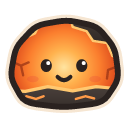
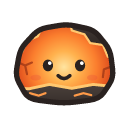
brand: the ember's faces without the light rim, in Coral and Blue flame
Every face the apps draw (the default, each tint, and the phone's off-duty grey) is
the mark without its light rim, so it sits cleanly on dark surfaces; Coral and Blue
flame replace Rose and Sage, made the same way, and Amber's highlights are redder.
The app icons keep the mark with its rim.

diff --git a/apps/mobile/src/state/theme.test.ts b/apps/mobile/src/state/theme.test.ts
@@ -136,16 +136,16 @@ describe("theme sync", () => {
   it("tints the ember at once, offline too, keeping the preset, and sends the tint alone", async () => {
     const { store, prefs, net, posts } = setup({ preset: "purple" });
     await store.getState().refresh();
-    const sent = store.getState().choose({ emberTint: "rose" });
-    expect(prefs.getState().themeCache?.choice).toMatchObject({ preset: "purple", emberTint: "rose" });
+    const sent = store.getState().choose({ emberTint: "coral" });
+    expect(prefs.getState().themeCache?.choice).toMatchObject({ preset: "purple", emberTint: "coral" });
     await sent;
-    expect(posts()).toEqual([{ emberTint: "rose" }]);
-    expect(prefs.getState().themeCache?.choice).toMatchObject({ preset: "purple", emberTint: "rose" });
+    expect(posts()).toEqual([{ emberTint: "coral" }]);
+    expect(prefs.getState().themeCache?.choice).toMatchObject({ preset: "purple", emberTint: "coral" });
 
     net.down = true;
-    await store.getState().choose({ emberTint: "sage" });
-    expect(currentTheme(prefs.getState()).choice.emberTint).toBe("sage");
-    expect(prefs.getState().themePending).toEqual({ emberTint: "sage" });
+    await store.getState().choose({ emberTint: "blue" });
+    expect(currentTheme(prefs.getState()).choice.emberTint).toBe("blue");
+    expect(prefs.getState().themePending).toEqual({ emberTint: "blue" });
   });
 
   it("keeps an offline change across a restart", async () => {

diff --git a/apps/mobile/src/navigation/emberTab.test.ts b/apps/mobile/src/navigation/emberTab.test.ts
@@ -41,14 +41,14 @@ describe("a rename made elsewhere", () => {
 });
 
 describe("your ember's tab in its tint", () => {
-  const tinted = { ember: "ember", rose: "rose ember" };
+  const tinted = { ember: "ember", coral: "coral ember" };
 
   it("draws the ember in the tint its look names", () => {
-    expect(emberTabOptions(true, tintedFaces("rose", tinted, "off")).tabBarIcon()).toBe("rose ember");
+    expect(emberTabOptions(true, tintedFaces("coral", tinted, "off")).tabBarIcon()).toBe("coral ember");
   });
 
   it("draws a tint this build has no picture of as the ember's own colours, and off duty grey whatever the tint", () => {
     expect(emberTabOptions(true, tintedFaces("calm", tinted, "off")).tabBarIcon()).toBe("ember");
-    expect(emberTabOptions(false, tintedFaces("rose", tinted, "off")).tabBarIcon()).toBe("off");
+    expect(emberTabOptions(false, tintedFaces("coral", tinted, "off")).tabBarIcon()).toBe("off");
   });
 });

diff --git a/apps/mobile/src/navigation/tabIcons.test.ts b/apps/mobile/src/navigation/tabIcons.test.ts
@@ -32,7 +32,7 @@ describe("Your ember's tab icon", () => {
 
   it("ships and bundles the ember in every tint the server lists, and off duty", () => {
     const names = [...page.tints.map((t) => (t.id === "ember" ? "emberhut-face" : `emberhut-face-${t.id}`)), "emberhut-face-off"];
-    expect(names).toContain("emberhut-face-sage");
+    expect(names).toContain("emberhut-face-blue");
     for (const name of names) {
       expect(existsSync(new URL(`../../assets/${name}.png`, import.meta.url)), name).toBe(true);
       expect(faces).toContain(`require("../../assets/${name}.png")`);

diff --git a/apps/mobile/src/ui/emberFaces.ts b/apps/mobile/src/ui/emberFaces.ts
@@ -11,8 +11,8 @@ const DEFAULT_TINT = "ember";
 export const emberFaceImages: Readonly<Record<string, ImageSourcePropType>> = {
   ember: require("../../assets/emberhut-face.png"),
   amber: require("../../assets/emberhut-face-amber.png"),
-  rose: require("../../assets/emberhut-face-rose.png"),
-  sage: require("../../assets/emberhut-face-sage.png"),
+  coral: require("../../assets/emberhut-face-coral.png"),
+  blue: require("../../assets/emberhut-face-blue.png"),
 };
 
 /** The face off duty, the same for every tint: grey at half opacity (128 px). */

diff --git a/apps/mobile/src/theme/builtIn.ts b/apps/mobile/src/theme/builtIn.ts
@@ -90,7 +90,7 @@ export const builtInTheme: ThemePage = {
   tints: [
     { id: "ember", name: "Ember" },
     { id: "amber", name: "Amber" },
-    { id: "rose", name: "Rose" },
-    { id: "sage", name: "Sage" },
+    { id: "coral", name: "Coral" },
+    { id: "blue", name: "Blue flame" },
   ],
 };

diff --git a/apps/desktop/src/assets.rs b/apps/desktop/src/assets.rs
@@ -18,14 +18,14 @@ const TINTED_FACES: [(&str, &str, &[u8]); 3] = [
         include_bytes!("../assets/face-amber.png"),
     ),
     (
-        "rose",
-        "face-rose.png",
-        include_bytes!("../assets/face-rose.png"),
+        "coral",
+        "face-coral.png",
+        include_bytes!("../assets/face-coral.png"),
     ),
     (
-        "sage",
-        "face-sage.png",
-        include_bytes!("../assets/face-sage.png"),
+        "blue",
+        "face-blue.png",
+        include_bytes!("../assets/face-blue.png"),
     ),
 ];
 

diff --git a/apps/desktop/src/ui/sidebar_ember.rs b/apps/desktop/src/ui/sidebar_ember.rs
@@ -472,9 +472,9 @@ mod tests {
             })
         };
         assert!(drawn(cx, "ember"), "the brand's own colours at first");
-        store.update(cx, |store, cx| store.pick_ember_tint("rose".into(), cx));
+        store.update(cx, |store, cx| store.pick_ember_tint("coral".into(), cx));
         cx.run_until_parked();
-        assert!(drawn(cx, "rose"), "the tint picked");
+        assert!(drawn(cx, "coral"), "the tint picked");
         assert!(!drawn(cx, "ember"));
     }
 

diff --git a/assets/brand/README.md b/assets/brand/README.md
@@ -29,9 +29,11 @@ don't add a flame, arms or a hut to it.
 ## The ember's tints
 
 The one recolouring allowed is the ember's tint, which a person picks for their own ember (Settings ›
-Your ember › Look): Amber, Rose and Sage beside the default, Ember. A tint is `emberhut-mark-on-dark.svg`
-with the glow's five stops, the seam, the embers in the charcoal, the cracks and the cheeks swapped for
-the tint's colours (`TINTS` in `crates/emberhut-core/src/theme.rs`, whose tests check the face's ink
-reads AA on each); the outline, eyes, smile, charcoal and rim stay. The exports are
-`apps/desktop/assets/face-<tint>.png` (128 px) and `apps/mobile/assets/emberhut-face-<tint>.png`
-(512 px). The app icons stay in the default colours.
+Your ember › Look): Amber, Coral and Blue flame beside the default, Ember, all of them fire. A tint is
+`emberhut-mark-on-dark.svg` without its light rim (so the face sits cleanly on dark surfaces), with
+the glow's five stops, the seam, the embers in the charcoal, the cracks and the cheeks swapped for the
+tint's colours (`TINTS` in `crates/emberhut-core/src/theme.rs`, whose tests check the face's ink reads
+AA on each); the outline, eyes, smile and charcoal stay. The exports are `apps/desktop/assets/face.png`
+and `face-<tint>.png` (128 px), and `apps/mobile/assets/emberhut-face.png` and
+`emberhut-face-<tint>.png` (512 px); `emberhut-face-off.png` (128 px) is the default face in grey at
+half opacity. The app icons keep the mark with its rim, in the default colours.
